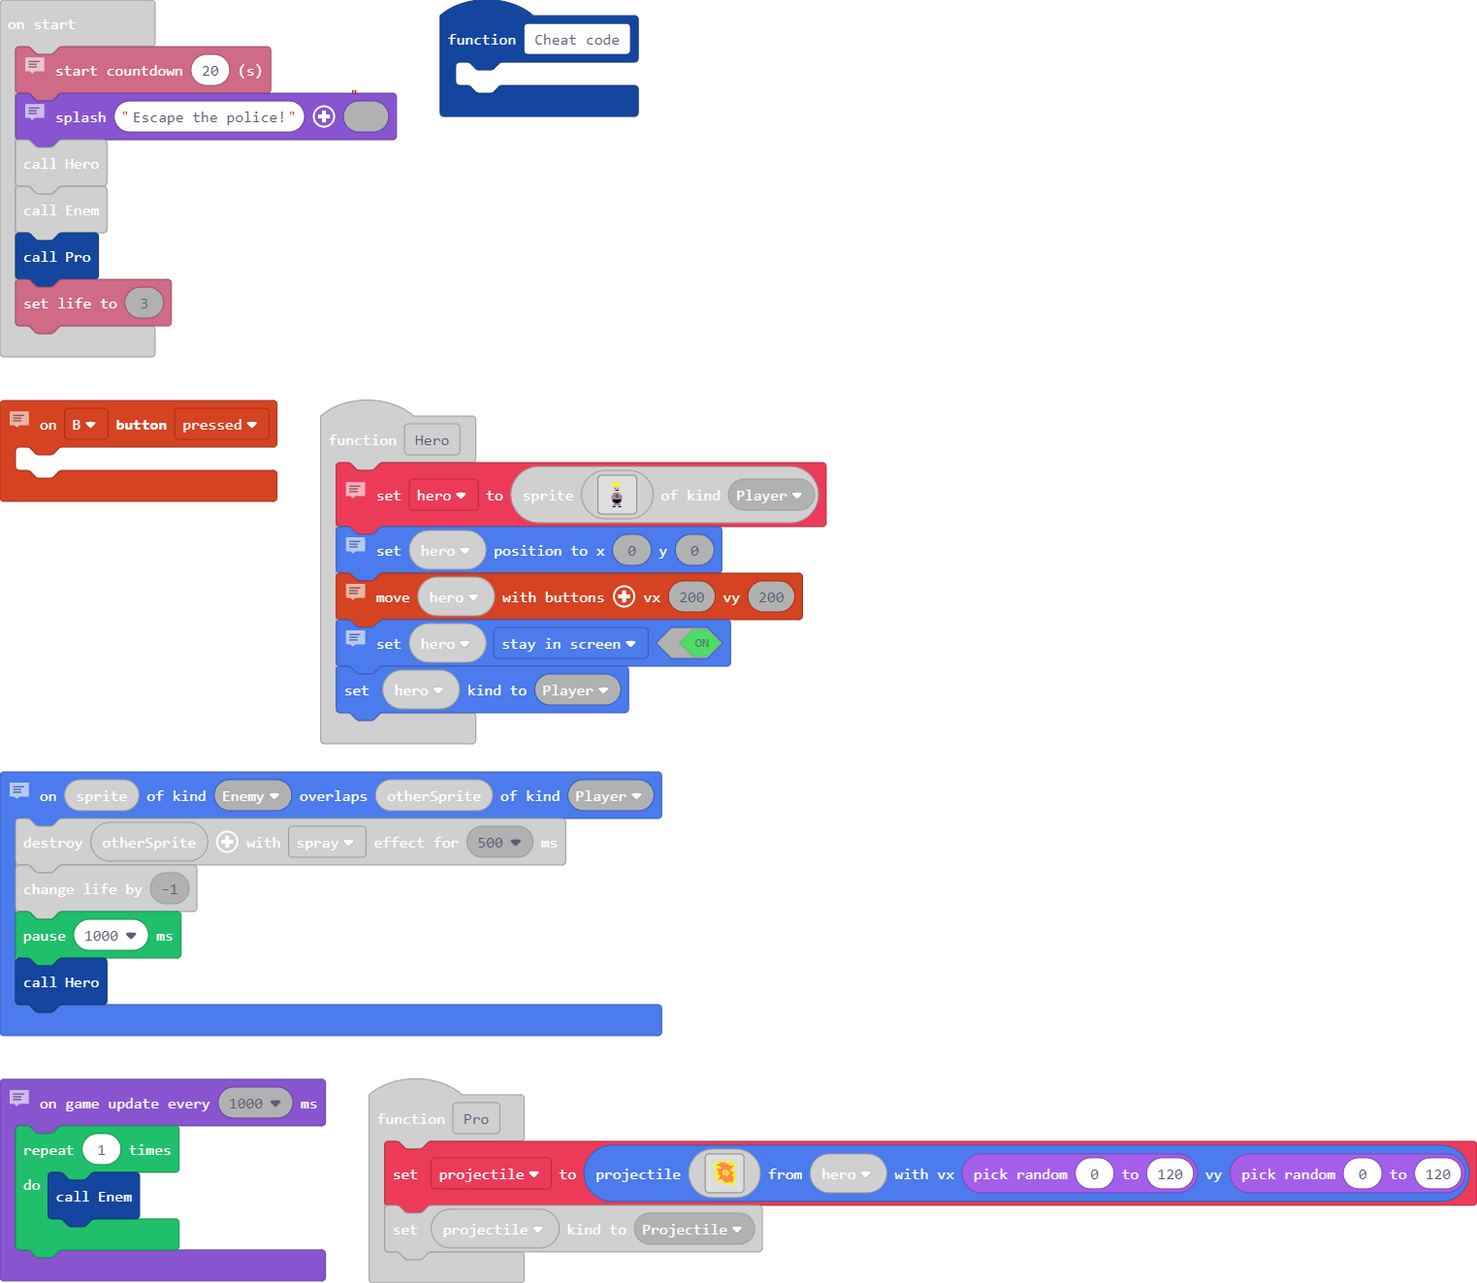
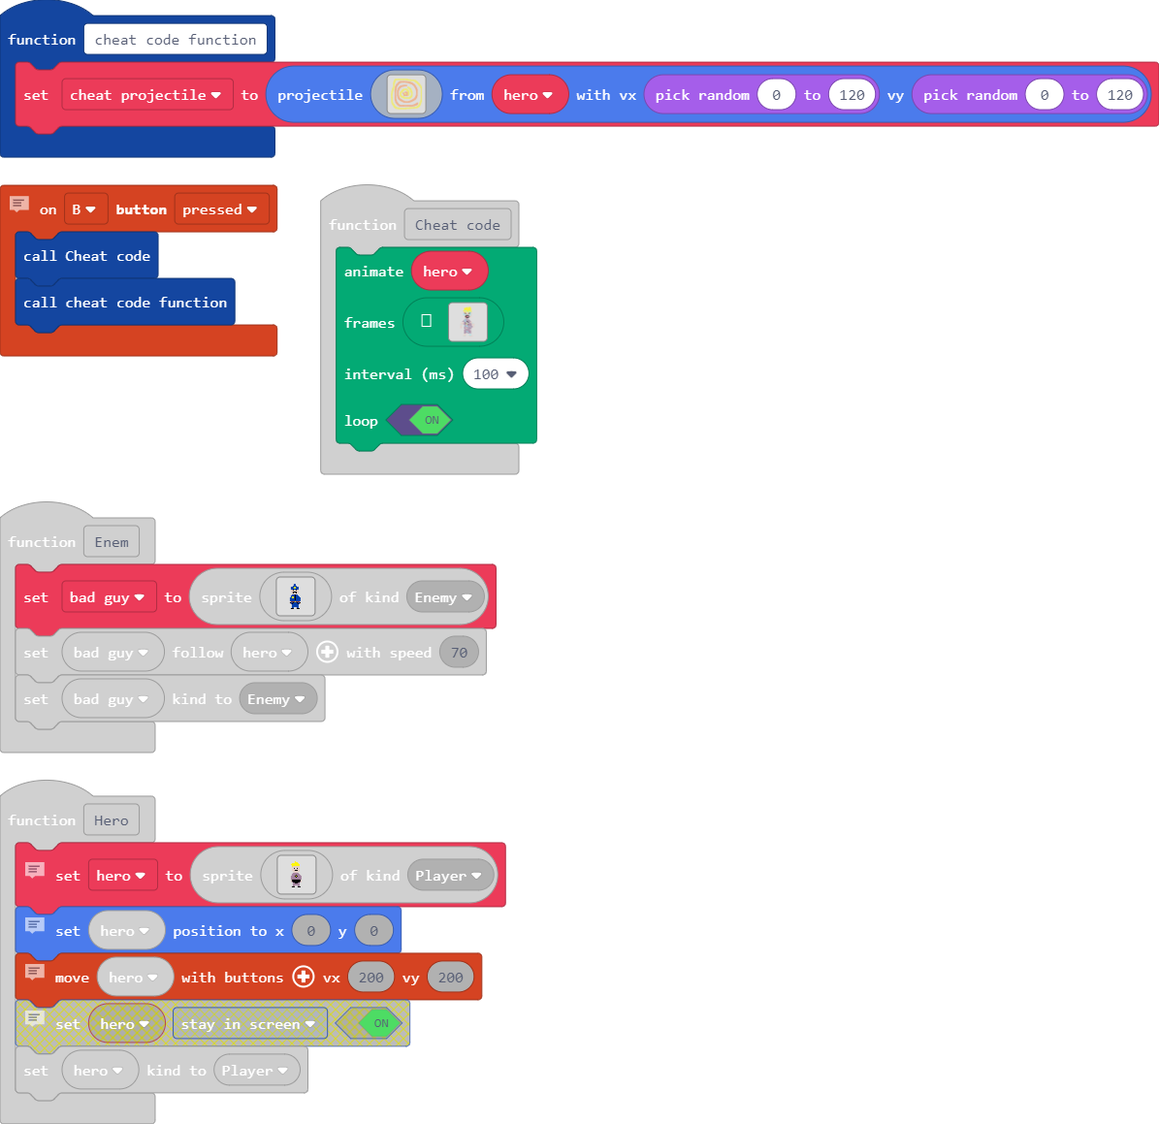
added a cheat code

diff --git a/main.ts b/main.ts
@@ -1,6 +1,111 @@
+function cheat_code_function () {
+    cheat_projectile = sprites.createProjectileFromSprite(img`
+. . . . . . . . . . . . . 5 5 5 5 5 5 5 5 5 5 5 5 5 5 5 5 5 5 5 5 5 5 5 5 5 5 5 5 5 5 5 5 5 5 5 5 5 5 5 5 . . . . . . . . . . . . . . . . . . . . . . . . . . . . . . . . . . . . . . . . . . . . . . . 
+. . . . . . . . . . . . 5 5 5 5 5 5 5 5 5 5 5 5 5 5 5 5 5 5 5 5 5 5 5 5 5 5 5 5 5 5 5 5 5 5 5 5 5 5 5 5 5 5 5 5 . . . . . . . . . . . . . . . . . . . . . . . . . . . . . . . . . . . . . . . . . . . . 
+. . . . . . . . . . . 5 5 5 5 5 5 5 5 5 5 5 5 5 5 5 5 5 5 5 5 5 5 5 5 5 5 5 5 5 5 5 5 5 5 5 5 5 5 5 5 5 5 5 5 5 5 5 5 5 5 5 5 5 5 . . . . . . . . . . . . . . . . . . . . . . . . . . . . . . . . . . . 
+. . . . . . . . . . . 5 5 5 5 5 5 5 5 5 5 5 5 5 5 5 5 5 5 5 5 5 5 5 5 5 5 5 5 5 5 5 5 5 5 5 5 5 5 5 5 5 5 5 5 5 5 5 5 5 5 5 5 5 5 5 5 5 5 5 5 5 5 5 5 5 5 . . . . . . . . . . . . . . . . . . . . . . . 
+. . . . . . . . . . 5 5 5 5 5 5 5 5 5 5 5 5 5 5 5 5 5 5 5 5 5 5 5 5 5 5 5 5 5 5 5 5 5 5 5 5 5 5 5 5 5 5 5 5 5 5 5 5 5 5 5 5 5 5 5 5 5 5 5 5 5 5 5 5 5 5 5 5 5 5 . . . . . . . . . . . . . . . . . . . . 
+. . . . . . . . . . 5 5 5 5 5 5 5 5 . . . . . . . . . . . . . . . . . . . . . . . . . . . . . . . 5 5 5 5 5 5 5 5 5 5 5 5 5 5 5 5 5 5 5 5 5 5 5 5 5 5 5 5 5 5 5 5 . . . . . . . . . . . . . . . . . . . 
+. . . . . . . . . . 5 5 5 5 5 5 . . . . . . . . . . . . . . . . . . . . . . . . . . . . . . . . . . . . 5 5 5 5 5 5 5 5 5 5 5 5 5 5 5 5 5 5 5 5 5 5 5 5 5 5 5 5 5 5 . . . . . . . . . . . . . . . . . . 
+. . . . . . . . . 5 5 5 5 5 5 5 . . . . . . . . . . . . . . . . . . . . . . . . . . . . . . . . . . . . . . . . . . . . . 5 5 5 5 5 5 5 5 5 5 5 5 5 5 5 5 5 5 5 5 5 5 . . . . . . . . . . . . . . . . . 
+. . . . . . . . . 5 5 5 5 5 5 . . . . . . . . . . . . . . 4 4 4 4 4 4 4 4 4 4 4 4 4 4 4 4 4 4 4 4 4 4 4 . . . . . . . . . . . . . . . . . . . . . 5 5 5 5 5 5 5 5 5 5 5 . . . . . . . . . . . . . . . . 
+. . . . . . . . 5 5 5 5 5 5 5 . . . . . . . . . . . 4 4 4 4 4 4 4 4 4 4 4 4 4 4 4 4 4 4 4 4 4 4 4 4 4 4 4 4 4 4 4 4 4 . . . . . . . . . . . . . . . . . 5 5 5 5 5 5 5 5 5 5 . . . . . . . . . . . . . . 
+. . . . . . . . 5 5 5 5 5 5 5 . . . . . . . . . . 4 4 4 4 4 4 4 4 4 4 4 4 4 4 4 4 4 4 4 4 4 4 4 4 4 4 4 4 4 4 4 4 4 4 4 4 4 4 . . . . . . . . . . . . . 5 5 5 5 5 5 5 5 5 5 5 . . . . . . . . . . . . . 
+. . . . . . . . 5 5 5 5 5 5 . . . . . . . . . 4 4 4 4 4 4 4 4 4 4 4 4 4 4 4 4 4 4 4 4 4 4 4 4 4 4 4 4 4 4 4 4 4 4 4 4 4 4 4 4 4 4 . . . . . . . . . . . . 5 5 5 5 5 5 5 5 5 5 5 . . . . . . . . . . . . 
+. . . . . . . . 5 5 5 5 5 5 . . . . . . . . 4 4 4 4 4 4 4 4 4 4 4 4 4 4 4 4 4 4 4 4 4 4 4 4 4 4 4 4 4 4 4 4 4 4 4 4 4 4 4 4 4 4 4 4 4 4 . . . . . . . . . . . 5 5 5 5 5 5 5 5 5 5 . . . . . . . . . . . 
+. . . . . . . 5 5 5 5 5 5 . . . . . . . . 4 4 4 4 4 4 4 4 4 4 4 4 . . . . . . . . . . . . . . . 4 4 4 4 4 4 4 4 4 4 4 4 4 4 4 4 4 4 4 4 4 4 4 . . . . . . . . . 5 5 5 5 5 5 5 5 5 5 . . . . . . . . . . 
+. . . . . . . 5 5 5 5 5 5 . . . . . . . . 4 4 4 4 4 4 4 4 4 . . . . . . . . . . . . . . . . . . . . . . . . . 4 4 4 4 4 4 4 4 4 4 4 4 4 4 4 4 4 . . . . . . . . . . 5 5 5 5 5 5 5 5 5 . . . . . . . . . 
+. . . . . . . 5 5 5 5 5 5 . . . . . . . 4 4 4 4 4 4 4 4 4 . . . . . . . . . . . . . . . . . . . . . . . . . . . . . . 4 4 4 4 4 4 4 4 4 4 4 4 4 4 . . . . . . . . . . 5 5 5 5 5 5 5 5 5 . . . . . . . . 
+. . . . . . . 5 5 5 5 5 5 . . . . . . 4 4 4 4 4 4 4 4 . . . . . . . . . . . . . . . . . . . . . . . . . . . . . . . . . . 4 4 4 4 4 4 4 4 4 4 4 4 4 . . . . . . . . . . 5 5 5 5 5 5 5 5 5 . . . . . . . 
+. . . . . . . 5 5 5 5 5 . . . . . 4 4 4 4 4 4 4 4 4 . . . . . . . . . . . . . . . . . . . . . . . . . . . . . . . . . . . . . . 4 4 4 4 4 4 4 4 4 4 4 4 . . . . . . . . . 5 5 5 5 5 5 5 5 5 . . . . . . 
+. . . . . . . 5 5 5 5 5 . . . . . 4 4 4 4 4 4 4 4 4 . . . . . . . . . . . . . . . . . . . . . . . . . . . . . . . . . . . . . . . . . 4 4 4 4 4 4 4 4 4 4 . . . . . . . . . 5 5 5 5 5 5 5 5 5 . . . . . 
+. . . . . . . 5 5 5 5 5 . . . . 4 4 4 4 4 4 4 4 4 . . . . . . . . . . . . . . . . . . . . . . . . . . . . . . . . . . . . . . . . . . . 4 4 4 4 4 4 4 4 4 4 . . . . . . . . . 5 5 5 5 5 5 5 5 . . . . . 
+. . . . . . . 5 5 5 5 5 . . . . 4 4 4 4 4 4 4 4 . . . . . . . . . . . . . . . 4 4 4 4 4 4 4 4 4 4 4 4 4 . . . . . . . . . . . . . . . . . 4 4 4 4 4 4 4 4 4 4 . . . . . . . . . 5 5 5 5 5 5 5 5 . . . . 
+. . . . . . . 5 5 5 5 5 . . . . 4 4 4 4 4 4 4 . . . . . . . . . . . 4 4 4 4 4 4 4 4 4 4 4 4 4 4 4 4 4 4 . . . . . . . . . . . . . . . . . . 4 4 4 4 4 4 4 4 4 . . . . . . . . . . 5 5 5 5 5 5 5 5 . . . 
+. . . . . . . 5 5 5 5 5 . . . 4 4 4 4 4 4 4 . . . . . . . . . 4 4 4 4 4 4 4 4 4 4 4 4 4 4 4 4 4 4 4 4 4 . . . . . . . . . . . . . . . . . . . . 4 4 4 4 4 4 4 4 . . . . . . . . . . 5 5 5 5 5 5 5 5 . . 
+. . . . . . . 5 5 5 5 5 . . 4 4 4 4 4 4 4 . . . . . . . . 4 4 4 4 4 4 4 4 4 4 4 4 4 4 4 4 4 4 4 4 4 4 4 . . . . . . . . . . . . . . . . . . . . . 4 4 4 4 4 4 4 4 . . . . . . . . . 5 5 5 5 5 5 5 5 . . 
+. . . . . . . 5 5 5 5 5 . . 4 4 4 4 4 4 4 . . . . . . . 4 4 4 4 4 4 4 4 4 4 4 4 4 4 4 4 4 4 4 4 4 4 4 4 . . . . . . . . . . . . . . . . . . . . . . 4 4 4 4 4 4 4 . . . . . . . . . . 5 5 5 5 5 5 5 5 . 
+. . . . . . . 5 5 5 5 5 . 4 4 4 4 4 4 4 4 . . . . . . 4 4 4 4 4 4 4 4 4 4 4 4 4 4 4 4 . . . . . . . . . . . . . . . . . . . . . . . . . . . . . . . 4 4 4 4 4 4 4 4 . . . . . . . . . . 5 5 5 5 5 5 5 . 
+. . . . . . 5 5 5 5 5 5 . 4 4 4 4 4 4 4 . . . . . . 4 4 4 4 4 4 4 4 4 4 4 4 . . . . . . . . . . . . . . . 5 5 5 5 5 5 . . . . . . . . . . . . . . . . 4 4 4 4 4 4 4 . . . . . . . . . . . 5 5 5 5 5 5 5 
+. . . . . . 5 5 5 5 5 5 . 4 4 4 4 4 4 . . . . . . 4 4 4 4 4 4 4 4 4 4 . . . . . . . . . . . . . . . . . . 5 5 5 5 5 5 5 . . . . . . . . . . . . . . . . 4 4 4 4 4 4 4 . . . . . . . . . . 5 5 5 5 5 5 5 
+. . . . . 5 5 5 5 5 5 5 . 4 4 4 4 4 4 . . . . . 4 4 4 4 4 4 4 4 4 4 . . . . . . . . . . . . . . . . . . . 5 5 5 5 5 5 5 5 5 . . . . . . . . . . . . . . 4 4 4 4 4 4 4 . . . . . . . . . . . 5 5 5 5 5 5 
+. . . . . 5 5 5 5 5 5 5 . 4 4 4 4 4 . . . . . 4 4 4 4 4 4 4 4 4 . . . . . . . . . . . . . . . . . . . . . 5 5 5 5 5 5 5 5 5 5 . . . . . . . . . . . . . . 4 4 4 4 4 4 4 . . . . . . . . . . 5 5 5 5 5 5 
+. . . . . 5 5 5 5 5 5 . . 4 4 4 4 4 . . . . . 4 4 4 4 4 4 4 4 . . . . . . . . . . . . . . . . . . . . . . 5 5 5 5 5 5 5 5 5 5 5 . . . . . . . . . . . . . 4 4 4 4 4 4 4 4 . . . . . . . . . . 5 5 5 5 5 
+. . . . 5 5 5 5 5 5 5 . . 4 4 4 4 4 . . . . 4 4 4 4 4 4 4 4 . . . . . . . . . . . . . . . . . . . . . . . . . 5 5 5 5 5 5 5 5 5 5 . . . . . . . . . . . . . 4 4 4 4 4 4 4 . . . . . . . . . . 5 5 5 5 5 
+. . . . 5 5 5 5 5 5 . . . 4 4 4 4 4 . . . 4 4 4 4 4 4 4 4 . . . . . . . . . . . 5 5 5 5 5 5 5 5 5 5 5 . . . . . 5 5 5 5 5 5 5 5 5 5 . . . . . . . . . . . . 4 4 4 4 4 4 4 . . . . . . . . . . . 5 5 5 5 
+. . . 5 5 5 5 5 5 5 . . 4 4 4 4 4 4 . . . 4 4 4 4 4 4 4 . . . . . . . . . . . 5 5 5 5 5 5 5 5 5 5 5 5 5 5 . . . . . 5 5 5 5 5 5 5 5 . . . . . . . . . . . . . 4 4 4 4 4 4 . . . . . . . . . . . . 5 5 5 
+. . . 5 5 5 5 5 5 5 . . 4 4 4 4 4 4 . . . 4 4 4 4 4 4 4 . . . . . . . . . 5 5 5 5 5 5 5 5 5 5 5 5 5 5 5 5 5 . . . . . 5 5 5 5 5 5 5 . . . . . . . . . . . . . . 4 4 4 4 4 4 . . . . . . . . . . . 5 5 5 
+. . . 5 5 5 5 5 5 . . . 4 4 4 4 4 4 . . . 4 4 4 4 4 4 . . . . . . . . . 5 5 5 5 5 5 5 5 5 5 5 5 5 5 5 5 5 5 5 . . . . . 5 5 5 5 5 5 5 . . . . . . . . . . . . . 4 4 4 4 4 4 . . . . . . . . . . 5 5 5 5 
+. . . 5 5 5 5 5 5 . . . 4 4 4 4 4 4 . . . 4 4 4 4 4 4 . . . . . . . . 5 5 5 5 5 5 5 5 5 5 5 5 5 5 5 5 5 5 5 5 5 . . . . . 5 5 5 5 5 5 . . . . . . . . . . . . . 4 4 4 4 4 4 . . . . . . . . . . 5 5 5 5 
+. . 5 5 5 5 5 5 . . . . 4 4 4 4 4 . . . 4 4 4 4 4 4 . . . . . . . . . 5 5 5 5 5 5 5 5 5 . . . 5 5 5 5 5 5 5 5 5 5 . . . . 5 5 5 5 5 5 . . . . . . . . . . . . . 4 4 4 4 4 4 . . . . . . . . . . 5 5 5 5 
+. . 5 5 5 5 5 5 . . . . 4 4 4 4 4 . . . 4 4 4 4 4 4 . . . . . . . . 5 5 5 5 5 5 5 5 5 . . . . . . 5 5 5 5 5 5 5 5 5 . . . 5 5 5 5 5 5 5 . . . . . . . . . . . . . 4 4 4 4 4 . . . . . . . . . . 5 5 5 5 
+. . 5 5 5 5 5 5 . . . . 4 4 4 4 4 . . . 4 4 4 4 4 4 . . . . . . . 5 5 5 5 5 5 5 5 . . . . . . . . . 5 5 5 5 5 5 5 5 5 . . . 5 5 5 5 5 5 . . . . . . . . . . . . . 4 4 4 4 4 . . . . . . . . . . 5 5 5 5 
+. . 5 5 5 5 5 5 . . . . 4 4 4 4 4 . . . 4 4 4 4 4 4 . . . . . . 5 5 5 5 5 5 5 5 5 . . . . . . . . . . 5 5 5 5 5 5 5 5 . . . 5 5 5 5 5 5 5 . . . . . . . . . . . . 4 4 4 4 4 . . . . . . . . . . 5 5 5 5 
+. . 5 5 5 5 5 . . . . . 4 4 4 4 4 . . . 4 4 4 4 4 . . . . . . 5 5 5 5 5 5 5 5 5 . . . . . . . . . . . . 5 5 5 5 5 5 5 5 . . 5 5 5 5 5 5 5 . . . . . . . . . . . . 4 4 4 4 4 . . . . . . . . . . 5 5 5 5 
+. 5 5 5 5 5 5 . . . . . 4 4 4 4 4 . . . 4 4 4 4 4 . . . . . 5 5 5 5 5 5 5 5 5 . . . . . . 4 4 4 4 4 4 4 . 5 5 5 5 5 5 5 . . . 5 5 5 5 5 5 5 . . . . . . . . . . . 4 4 4 4 4 . . . . . . . . . . 5 5 5 5 
+. 5 5 5 5 5 5 . . . . . 4 4 4 4 4 . . . 4 4 4 4 4 . . . . 5 5 5 5 5 5 5 5 5 . . . . . . . 4 4 4 4 4 4 4 4 4 4 5 5 5 5 5 . . . 5 5 5 5 5 5 5 . . . . . . . . . . . 4 4 4 4 4 . . . . . . . . . . 5 5 5 5 
+. 5 5 5 5 5 5 . . . . . 4 4 4 4 4 . . . 4 4 4 4 4 . . . 5 5 5 5 5 5 5 5 5 . . . . . . . . 4 4 4 4 4 4 4 4 4 4 5 5 5 5 5 . . . . 5 5 5 5 5 5 . . . . . . . . . . . 4 4 4 4 4 . . . . . . . . . . 5 5 5 5 
+. 5 5 5 5 5 5 . . . . . 4 4 4 4 4 . . . 4 4 4 4 4 . . . 5 5 5 5 5 5 5 5 . . 4 4 4 4 4 . 5 4 4 4 4 4 4 4 4 4 4 5 5 5 5 5 . . . . 5 5 5 5 5 5 . . . . . . . . . . . 4 4 4 4 4 . . . . . . . . . . 5 5 5 5 
+. 5 5 5 5 5 . . . . . . 4 4 4 4 4 . . . 4 4 4 4 4 . . . 5 5 5 5 5 5 5 . . . 4 4 4 4 4 5 5 4 4 4 4 4 4 4 4 4 4 5 5 5 5 5 . . . . . 5 5 5 5 5 . . . . . . . . . . . 4 4 4 4 4 . . . . . . . . . . 5 5 5 5 
+. 5 5 5 5 5 . . . . . . 4 4 4 4 4 . . . 4 4 4 4 4 . . . 5 5 5 5 5 5 . . . . 4 4 4 4 4 5 5 5 5 5 4 4 4 4 4 4 4 5 5 5 5 5 . . . . . 5 5 5 5 5 . . . . . . . . . . . 4 4 4 4 4 . . . . . . . . . . 5 5 5 5 
+5 5 5 5 5 5 . . . . . . 4 4 4 4 4 . . . 4 4 4 4 4 . . . 5 5 5 5 5 5 . . . . 4 4 4 4 4 5 5 5 5 5 5 5 4 4 4 4 4 5 5 5 5 5 . . . . . 5 5 5 5 5 . . . . . . . . . . . 4 4 4 4 4 . . . . . . . . . . 5 5 5 5 
+5 5 5 5 5 5 . . . . . . 4 4 4 4 4 . . . 4 4 4 4 4 . . . 5 5 5 5 5 . . . . . 4 4 4 4 4 5 5 5 5 5 5 5 4 4 4 4 4 5 5 5 5 5 . . . . . 5 5 5 5 5 . . . . . . . . . . . 4 4 4 4 4 . . . . . . . . . . 5 5 5 5 
+5 5 5 5 5 5 . . . . . . 4 4 4 4 4 . . . 4 4 4 4 4 . . . 5 5 5 5 5 . . . . . . . 4 4 4 4 4 5 5 5 5 5 4 4 4 4 4 5 5 5 5 5 . . . . . 5 5 5 5 5 . . . . . . . . . . . 4 4 4 4 4 . . . . . . . . . . 5 5 5 5 
+5 5 5 5 5 5 . . . . . . 4 4 4 4 4 . . . 4 4 4 4 4 . . . 5 5 5 5 5 5 . . . . . . 4 4 4 4 4 4 4 4 4 4 4 4 4 4 4 5 5 5 5 5 . . . . . 5 5 5 5 5 . . . . . . . . . . . 4 4 4 4 4 . . . . . . . . . . 5 5 5 5 
+5 5 5 5 5 . . . . . . . 4 4 4 4 4 . . . 4 4 4 4 4 . . . 5 5 5 5 5 5 . . . . . . 4 4 4 4 4 4 4 4 4 4 4 4 4 4 4 5 5 5 5 . . . . . 5 5 5 5 5 5 . . . . . . . . . . 4 4 4 4 4 4 . . . . . . . . . . 5 5 5 5 
+5 5 5 5 5 . . . . . . . 4 4 4 4 4 . . . 4 4 4 4 4 4 . . 5 5 5 5 5 5 5 . . . . . 4 4 4 4 4 4 4 4 4 4 4 4 4 4 4 5 5 5 5 . . . . . 5 5 5 5 5 5 . . . . . . . . . . 4 4 4 4 4 4 . . . . . . . . . . 5 5 5 5 
+5 5 5 5 5 . . . . . . . 4 4 4 4 4 . . . 4 4 4 4 4 4 . . 5 5 5 5 5 5 5 5 . . . . 4 4 4 4 4 4 4 4 4 4 4 4 4 4 4 5 5 5 . . . . . . 5 5 5 5 5 5 . . . . . . . . . . 4 4 4 4 4 4 . . . . . . . . . . 5 5 5 5 
+5 5 5 5 5 . . . . . . . 4 4 4 4 4 . . . 4 4 4 4 4 4 . . . 5 5 5 5 5 5 5 5 . . . . 4 4 4 4 4 4 4 4 4 4 4 4 4 . . . . . . . . . 5 5 5 5 5 5 5 . . . . . . . . . . 4 4 4 4 4 4 . . . . . . . . . . 5 5 5 5 
+5 5 5 5 5 . . . . . . . 4 4 4 4 4 . . . 4 4 4 4 4 4 . . . 5 5 5 5 5 5 5 5 5 5 . . . . . . . . . . . . . . . . . . . . . . . 5 5 5 5 5 5 5 . . . . . . . . . . 4 4 4 4 4 4 . . . . . . . . . . . 5 5 5 5 
+5 5 5 5 5 . . . . . . . 4 4 4 4 4 . . . . 4 4 4 4 4 4 . . . 5 5 5 5 5 5 5 5 5 5 5 5 . . . . . . . . . . . . . . . . . . . 5 5 5 5 5 5 5 5 . . . . . . . . . . 4 4 4 4 4 4 . . . . . . . . . . . 5 5 5 5 
+5 5 5 5 5 5 . . . . . . 4 4 4 4 4 . . . . 4 4 4 4 4 4 . . . . 5 5 5 5 5 5 5 5 5 5 5 5 5 . . . . . . . . . . . . . . . . 5 5 5 5 5 5 5 5 5 . . . . . . . . . 4 4 4 4 4 4 4 . . . . . . . . . . . 5 5 5 5 
+5 5 5 5 5 5 . . . . . . 4 4 4 4 4 . . . . 4 4 4 4 4 4 . . . . . 5 5 5 5 5 5 5 5 5 5 5 5 5 . . . . . . . . . . . . . . 5 5 5 5 5 5 5 5 5 . . . . . . . . . 4 4 4 4 4 4 4 4 . . . . . . . . . . . 5 5 5 5 
+5 5 5 5 5 5 . . . . . . 4 4 4 4 4 . . . . 4 4 4 4 4 4 4 . . . . . 5 5 5 5 5 5 5 5 5 5 5 5 5 5 5 5 5 5 5 5 5 5 5 5 5 5 5 5 5 5 5 5 5 5 . . . . . . . . . . 4 4 4 4 4 4 4 . . . . . . . . . . . . 5 5 5 5 
+5 5 5 5 5 5 . . . . . . 4 4 4 4 4 . . . . . 4 4 4 4 4 4 . . . . . . . 5 5 5 5 5 5 5 5 5 5 5 5 5 5 5 5 5 5 5 5 5 5 5 5 5 5 5 5 5 5 5 . . . . . . . . . . 4 4 4 4 4 4 4 4 . . . . . . . . . . . . 5 5 5 5 
+. 5 5 5 5 5 . . . . . . 4 4 4 4 4 . . . . . 4 4 4 4 4 4 4 . . . . . . . . . 5 5 5 5 5 5 5 5 5 5 5 5 5 5 5 5 5 5 5 5 5 5 5 5 5 5 5 . . . . . . . . . . . 4 4 4 4 4 4 4 . . . . . . . . . . . . . 5 5 5 5 
+. 5 5 5 5 5 . . . . . . 4 4 4 4 4 . . . . . 4 4 4 4 4 4 4 4 . . . . . . . . . . 5 5 5 5 5 5 5 5 5 5 5 5 5 5 5 5 5 5 5 5 5 5 5 5 . . . . . . . . . . 4 4 4 4 4 4 4 4 4 . . . . . . . . . . . . . 5 5 5 5 
+. 5 5 5 5 5 . . . . . . 4 4 4 4 4 . . . . . . 4 4 4 4 4 4 4 4 . . . . . . . . . . 5 5 5 5 5 5 5 5 5 5 5 5 5 5 5 5 5 5 5 5 5 5 . . . . . . . . . . 4 4 4 4 4 4 4 4 4 . . . . . . . . . . . . . . 5 5 5 5 
+. 5 5 5 5 5 . . . . . . 4 4 4 4 4 . . . . . . 4 4 4 4 4 4 4 4 4 . . . . . . . . . . . . . . . . . . . . . . . . . . . . . . . . . . . . . . . 4 4 4 4 4 4 4 4 4 4 . . . . . . . . . . . . . . . 5 5 5 5 
+. 5 5 5 5 5 . . . . . . 4 4 4 4 4 . . . . . . . 4 4 4 4 4 4 4 4 4 4 . . . . . . . . . . . . . . . . . . . . . . . . . . . . . . . . . . . 4 4 4 4 4 4 4 4 4 4 4 4 . . . . . . . . . . . . . . . 5 5 5 5 
+. 5 5 5 5 5 . . . . . . 4 4 4 4 4 4 . . . . . . . 4 4 4 4 4 4 4 4 4 4 4 . . . . . . . . . . . . . . . . . . . . . . . . . . . . . . . . 4 4 4 4 4 4 4 4 4 4 4 4 . . . . . . . . . . . . . . . . 5 5 5 5 
+. 5 5 5 5 5 . . . . . . 4 4 4 4 4 4 . . . . . . . . 4 4 4 4 4 4 4 4 4 4 4 . . . . . . . . . . . . . . . . . . . . . . . . . . . . . 4 4 4 4 4 4 4 4 4 4 4 4 4 . . . . . . . . . . . . . . . . 5 5 5 5 5 
+. 5 5 5 5 5 . . . . . . 4 4 4 4 4 4 4 . . . . . . . . 4 4 4 4 4 4 4 4 4 4 4 . . . . . . . . . . . . . . . . . . . . . . . . . . 4 4 4 4 4 4 4 4 4 4 4 4 4 . . . . . . . . . . . . . . . . . . 5 5 5 5 5 
+. 5 5 5 5 5 . . . . . . 4 4 4 4 4 4 4 . . . . . . . . . 4 4 4 4 4 4 4 4 4 4 4 4 4 . . . . . . . . . . . . . . . . . . . . . 4 4 4 4 4 4 4 4 4 4 4 4 4 . . . . . . . . . . . . . . . . . . . . 5 5 5 5 5 
+. 5 5 5 5 5 . . . . . . . 4 4 4 4 4 4 . . . . . . . . . . . 4 4 4 4 4 4 4 4 4 4 4 4 4 . . . . . . . . . . . . . . . . 4 4 4 4 4 4 4 4 4 4 4 4 4 4 4 . . . . . . . . . . . . . . . . . . . . 5 5 5 5 5 5 
+. 5 5 5 5 5 . . . . . . . 4 4 4 4 4 4 . . . . . . . . . . . . . 4 4 4 4 4 4 4 4 4 4 4 4 4 4 . . . . . . . . . . 4 4 4 4 4 4 4 4 4 4 4 4 4 4 4 4 . . . . . . . . . . . . . . . . . . . . . . 5 5 5 5 5 5 
+. 5 5 5 5 5 5 . . . . . . . 4 4 4 4 4 4 . . . . . . . . . . . . . 4 4 4 4 4 4 4 4 4 4 4 4 4 4 4 4 4 4 4 4 4 4 4 4 4 4 4 4 4 4 4 4 4 4 4 4 4 . . . . . . . . . . . . . . . . . . . . . . . 5 5 5 5 5 5 5 
+. 5 5 5 5 5 5 . . . . . . . 4 4 4 4 4 4 4 . . . . . . . . . . . . . 4 4 4 4 4 4 4 4 4 4 4 4 4 4 4 4 4 4 4 4 4 4 4 4 4 4 4 4 4 4 4 4 4 4 . . . . . . . . . . . . . . . . . . . . . . . . . 5 5 5 5 5 5 5 
+. 5 5 5 5 5 5 . . . . . . . 4 4 4 4 4 4 4 . . . . . . . . . . . . . . . . 4 4 4 4 4 4 4 4 4 4 4 4 4 4 4 4 4 4 4 4 4 4 4 4 4 4 4 4 4 . . . . . . . . . . . . . . . . . . . . . . . . . . . 5 5 5 5 5 5 . 
+. 5 5 5 5 5 5 . . . . . . . 4 4 4 4 4 4 4 4 . . . . . . . . . . . . . . . . . 4 4 4 4 4 4 4 4 4 4 4 4 4 4 4 4 4 4 4 4 4 4 4 4 . . . . . . . . . . . . . . . . . . . . . . . . . . . . . 5 5 5 5 5 5 5 . 
+. . 5 5 5 5 5 5 . . . . . . . 4 4 4 4 4 4 4 4 . . . . . . . . . . . . . . . . . . . 4 4 4 4 4 4 4 4 4 4 4 4 4 4 4 4 4 4 . . . . . . . . . . . . . . . . . . . . . . . 4 4 4 4 4 . . . . 5 5 5 5 5 5 . . 
+. . 5 5 5 5 5 5 . . . . . . . 4 4 4 4 4 4 4 4 . . . . . . . . . . . . . . . . . . . . . . . . . . . . . . . . . . . . . . . . . . . . . . . . . . . . . . . . . . . 4 4 4 4 4 4 . . . . 5 5 5 5 5 5 . . 
+. . 5 5 5 5 5 5 . . . . . . . . 4 4 4 4 4 4 4 4 . . . . . . . . . . . . . . . . . . . . . . . . . . . . . . . . . . . . . . . . . . . . . . . . . . . . . . . . . 4 4 4 4 4 4 4 . . . 5 5 5 5 5 5 5 . . 
+. . 5 5 5 5 5 5 5 . . . . . . . . 4 4 4 4 4 4 4 4 . . . . . . . . . . . . . . . . . . . . . . . . . . . . . . . . . . . . . . . . . . . . . . . . . . . . . . 4 4 4 4 4 4 4 4 4 . . . 5 5 5 5 5 5 . . . 
+. . . 5 5 5 5 5 5 5 . . . . . . . . 4 4 4 4 4 4 4 4 . . . . . . . . . . . . . . . . . . . . . . . . . . . . . . . . . . . . . . . . . . . . . . . . . . . 4 4 4 4 4 4 4 4 4 4 4 . . 5 5 5 5 5 5 5 . . . 
+. . . 5 5 5 5 5 5 5 5 . . . . . . . 4 4 4 4 4 4 4 4 4 . . . . . . . . . . . . . . . . . . . . . . . . . . . . . . . . . . . . . . . . . . . . . . . 4 4 4 4 4 4 4 4 4 4 4 4 4 . . . 5 5 5 5 5 5 5 . . . 
+. . . 5 5 5 5 5 5 5 5 5 . . . . . . . 4 4 4 4 4 4 4 4 4 4 . . . . . . . . . . . . . . . . . . . . . . . . . . . . . . . . . . . . . . . . . . . . 4 4 4 4 4 4 4 4 4 4 4 4 4 4 . . . 5 5 5 5 5 5 . . . . 
+. . . . 5 5 5 5 5 5 5 5 . . . . . . . . 4 4 4 4 4 4 4 4 4 4 4 . . . . . . . . . . . . . . . . . . . . . . . . . . . . . . . . . . . . . . 4 4 4 4 4 4 4 4 4 4 4 4 4 4 4 4 . . . . 5 5 5 5 5 5 5 . . . . 
+. . . . . 5 5 5 5 5 5 5 5 . . . . . . . . 4 4 4 4 4 4 4 4 4 4 4 4 4 4 4 4 4 4 4 4 4 4 4 4 4 4 4 4 4 4 4 4 4 4 4 4 4 4 4 4 4 4 4 4 4 4 4 4 4 4 4 4 4 4 4 4 4 4 4 4 4 4 4 . . . 5 5 5 5 5 5 5 5 . . . . . 
+. . . . . . 5 5 5 5 5 5 5 . . . . . . . . . 4 4 4 4 4 4 4 4 4 4 4 4 4 4 4 4 4 4 4 4 4 4 4 4 4 4 4 4 4 4 4 4 4 4 4 4 4 4 4 4 4 4 4 4 4 4 4 4 4 4 4 4 4 4 4 4 4 4 4 . . . . . . 5 5 5 5 5 5 5 5 . . . . . 
+. . . . . . . 5 5 5 5 5 5 5 . . . . . . . . . 4 4 4 4 4 4 4 4 4 4 4 4 4 4 4 4 4 4 4 4 4 4 4 4 4 4 4 4 4 4 4 4 4 4 4 4 4 4 4 4 4 4 4 4 4 4 4 4 4 4 4 4 4 4 4 . . . . . . . . 5 5 5 5 5 5 5 5 5 . . . . . 
+. . . . . . . 5 5 5 5 5 5 5 5 . . . . . . . . . . 4 4 4 4 4 4 4 4 4 4 4 4 4 4 4 4 4 4 4 4 4 4 4 4 4 4 4 4 4 4 4 4 4 4 4 4 4 4 4 4 4 4 4 4 4 4 4 4 4 4 4 4 . . . . . . . 5 5 5 5 5 5 5 5 5 5 . . . . . . 
+. . . . . . . . 5 5 5 5 5 5 5 5 . . . . . . . . . . . 4 4 4 4 4 4 4 4 4 4 4 4 4 4 4 4 4 4 4 4 4 4 4 4 4 4 4 4 4 4 4 4 4 4 4 4 4 4 4 4 4 4 4 4 4 4 . . . . . . . . . . 5 5 5 5 5 5 5 5 5 5 . . . . . . . 
+. . . . . . . . 5 5 5 5 5 5 5 5 5 . . . . . . . . . . . . . . . . . . . . . . . . . . . . . . . . . . . . . . . . . . . . . . . . . . . . . . . . . . . . . . . 5 5 5 5 5 5 5 5 5 5 5 5 . . . . . . . . 
+. . . . . . . . . 5 5 5 5 5 5 5 5 5 5 . . . . . . . . . . . . . . . . . . . . . . . . . . . . . . . . . . . . . . . . . . . . . . . . . . . . . . . 5 5 5 5 5 5 5 5 5 5 5 5 5 5 5 5 5 . . . . . . . . . 
+. . . . . . . . . 5 5 5 5 5 5 5 5 5 5 5 5 . . . . . . . . . . . . . . . . . . . . . . . . . . . . . . . . . . . . . . . 5 5 5 5 5 5 5 5 5 5 5 5 5 5 5 5 5 5 5 5 5 5 5 5 5 5 5 5 5 5 . . . . . . . . . . 
+. . . . . . . . . . 5 5 5 5 5 5 5 5 5 5 5 5 5 5 5 5 5 5 . . . . . . . . . . . . . . . . . . 5 5 5 5 5 5 5 5 5 5 5 5 5 5 5 5 5 5 5 5 5 5 5 5 5 5 5 5 5 5 5 5 5 5 5 5 5 5 5 5 5 5 . . . . . . . . . . . . 
+. . . . . . . . . . . . 5 5 5 5 5 5 5 5 5 5 5 5 5 5 5 5 5 5 5 5 5 5 5 5 5 5 5 5 5 5 5 5 5 5 5 5 5 5 5 5 5 5 5 5 5 5 5 5 5 5 5 5 5 5 5 5 5 5 5 5 5 5 5 5 5 5 5 5 5 5 5 5 5 5 5 . . . . . . . . . . . . . 
+. . . . . . . . . . . . 5 5 5 5 5 5 5 5 5 5 5 5 5 5 5 5 5 5 5 5 5 5 5 5 5 5 5 5 5 5 5 5 5 5 5 5 5 5 5 5 5 5 5 5 5 5 5 5 5 5 5 5 5 5 5 5 5 5 5 5 5 5 5 5 5 5 5 5 5 5 5 5 . . . . . . . . . . . . . . . . 
+. . . . . . . . . . . . . 5 5 5 5 5 5 5 5 5 5 5 5 5 5 5 5 5 5 5 5 5 5 5 5 5 5 5 5 5 5 5 5 5 5 5 5 5 5 5 5 5 5 5 5 5 5 5 5 5 5 5 5 5 5 5 5 5 5 5 5 5 5 5 5 5 . . . . . . . . . . . . . . . . . . . . . . 
+. . . . . . . . . . . . . . . . . 5 5 5 5 5 5 5 5 5 5 5 5 5 5 5 5 5 5 5 5 5 5 5 5 5 5 5 5 5 5 5 5 5 5 5 5 5 5 5 5 5 5 5 5 5 5 5 . . . . . . . . . . . . . . . . . . . . . . . . . . . . . . . . . . . . 
+. . . . . . . . . . . . . . . . . . . . . . . 5 5 5 5 5 5 5 5 5 5 5 5 5 5 5 5 5 5 5 5 5 5 5 5 5 5 5 . . . . . . . . . . . . . . . . . . . . . . . . . . . . . . . . . . . . . . . . . . . . . . . . . . 
+. . . . . . . . . . . . . . . . . . . . . . . . . . . . . . . . . . . . . . . . . . . . . . . . . . . . . . . . . . . . . . . . . . . . . . . . . . . . . . . . . . . . . . . . . . . . . . . . . . . . 
+`, hero, Math.randomRange(0, 120), Math.randomRange(0, 120))
+}
 // When B is pressed, hero activates cheat code.
 controller.B.onEvent(ControllerButtonEvent.Pressed, function () {
-	
+    Cheat_code()
+    cheat_code_function()
 })
 // When the enemy overlaps the player,
 sprites.onOverlap(SpriteKind.Enemy, SpriteKind.Player, function (sprite, otherSprite) {
@@ -124,19 +229,64 @@ function Hero () {
     //
     // all directions
     controller.moveSprite(hero, 200, 200)
-    // It makes sure the hero is always on the screen.
-    hero.setFlag(SpriteFlag.StayInScreen, true)
     hero.setKind(SpriteKind.Player)
 }
 function Cheat_code () {
-	
+    animation.runImageAnimation(
+    hero,
+    [img`
+. . . . . . . . . . . . . . . . . . . . . . 5 . . . . . . . . . . . . . . . . . 
+. . . . . . . . . . . . . . . . . . 5 5 . 5 5 . . . . . . . . . . . . . . . . . 
+. . . . . . . . . . . . . . . 5 5 5 5 5 5 5 5 5 . . . . . . . . . . . . . . . . 
+. . . . . . . . . . . . . . . 5 5 5 5 5 5 5 5 5 . . . . . . . . . . . . . . . . 
+. . . . . . . . . . . . . . . 5 5 5 5 5 5 5 5 5 . . . . . . . . . . . . . . . . 
+. . . . . . . . . . . . . . 5 5 9 9 5 5 5 5 5 5 . . . . . . . . . . . . . . . . 
+. . . . . . . . . . . . . . d 5 5 5 d 5 5 9 9 5 5 . . . . . . . . . . . . . . . 
+. . . . . . . . . . . . . . d d d 5 d 9 5 5 d 9 d . . . . . . . . . . . . . . . 
+. . . . . . . . . . . . . . d d f d d d d d f 9 d . . . . . . . . . . . . . . . 
+. . . . . . . . . . . . . . 9 d d f d d d f d 9 d . . . . . . . . . . . . . . . 
+. . . . . . . . . . . . . . 9 9 d 9 d d d 9 d 9 d . . . . . . . . . . . . . . . 
+. . . . . . . . . . . . . . d 9 d d f f f d d 9 d . . . . . . . . . . . . . . . 
+. . . . . . . . . . . . . . . d d f f 3 f f d d d . . . . . . . . . . . . . . . 
+. . . . . . . . . . . . . . . d d f 2 3 3 f d d . . . . . . . . . . . . . . . . 
+. . . . . . . . . . . . . . . . d d f f f d . . . . . . . . . . . . . . . . . . 
+. . . . . . . . . . . . . . . . . . b b . . . . . . . . . . . . . . . . . . . . 
+. . . . . . . . . . . . . . . . b b b d b . . . . . . . . . . . . . . . . . . . 
+. . . . . . . . . . . . . . . b 9 9 b b b b . . . . . . . . . . . . . . . . . . 
+. . . . . . . . . . . . . . b b 9 b b b b b b . . . . . . . . . . . . . . . . . 
+. . . . . . . . . . . . . b b b 9 b b f b b b b d . . . . . . . . . . . . . . . 
+. . . . . . . . . . . . . d d b b b d b f b b d d d . . . . . . . . . . . . . . 
+. . . . . . . . . . . d d d d b b f 9 d b b d b d d 9 . . . . . . . . . . . . . 
+. . . . . . . . . . . d d d b b b b 5 b d b b b b d d d . . . . . . . . . . . . 
+. . . . . . . . . . d 9 d . . b b b d b f b b b b . d d . . . . . . . . . . . . 
+. . . . . . . . . . d d . . . 9 b b 9 b b b b b b . d d . . . . . . . . . . . . 
+. . . . . . . . . . d d . . . 9 b b 9 9 b d b b b b . d . . . . . . . . . . . . 
+. . . . . . . . . . d d . . . b b b b b b b b 9 b b . d . . . . . . . . . . . . 
+. . . . . . . . . . d d . . . b b d d b 9 b b b b . . . . . . . . . . . . . . . 
+. . . . . . . . . . . . . . . b b b d b b b b b . . . . . . . . . . . . . . . . 
+. . . . . . . . . . . . . . . . b b b b b b b . . . . . . . . . . . . . . . . . 
+. . . . . . . . . . . . . . . b b b b b b b b . . . . . . . . . . . . . . . . . 
+. . . . . . . . . . . . . . . b b b b b b b b b . . . . . . . . . . . . . . . . 
+. . . . . . . . . . . . . . . b b b 9 9 b b b b . . . . . . . . . . . . . . . . 
+. . . . . . . . . . . . . . . b b b b b 9 b b b . . . . . . . . . . . . . . . . 
+. . . . . . . . . . . . . . . b b . . . b b 9 b . . . . . . . . . . . . . . . . 
+. . . . . . . . . . . . . . . d d . . . . . d d . . . . . . . . . . . . . . . . 
+. . . . . . . . . . . . . . . d d . . . . . 9 9 . . . . . . . . . . . . . . . . 
+. . . . . . . . . . . . . . d d d . . . . . d 9 d d . . . . . . . . . . . . . . 
+. . . . . . . . . . . . . . d 9 d . . . . . d d d d . . . . . . . . . . . . . . 
+. . . . . . . . . . . . . . . . . . . . . . . . . . . . . . . . . . . . . . . . 
+`],
+    100,
+    true
+    )
 }
 info.onLifeZero(function () {
     game.over(false)
 })
 let projectile: Sprite = null
-let hero: Sprite = null
 let bad_guy: Sprite = null
+let hero: Sprite = null
+let cheat_projectile: Sprite = null
 // Adds a timer fr the game
 info.startCountdown(20)
 // It shows text directions for the game
